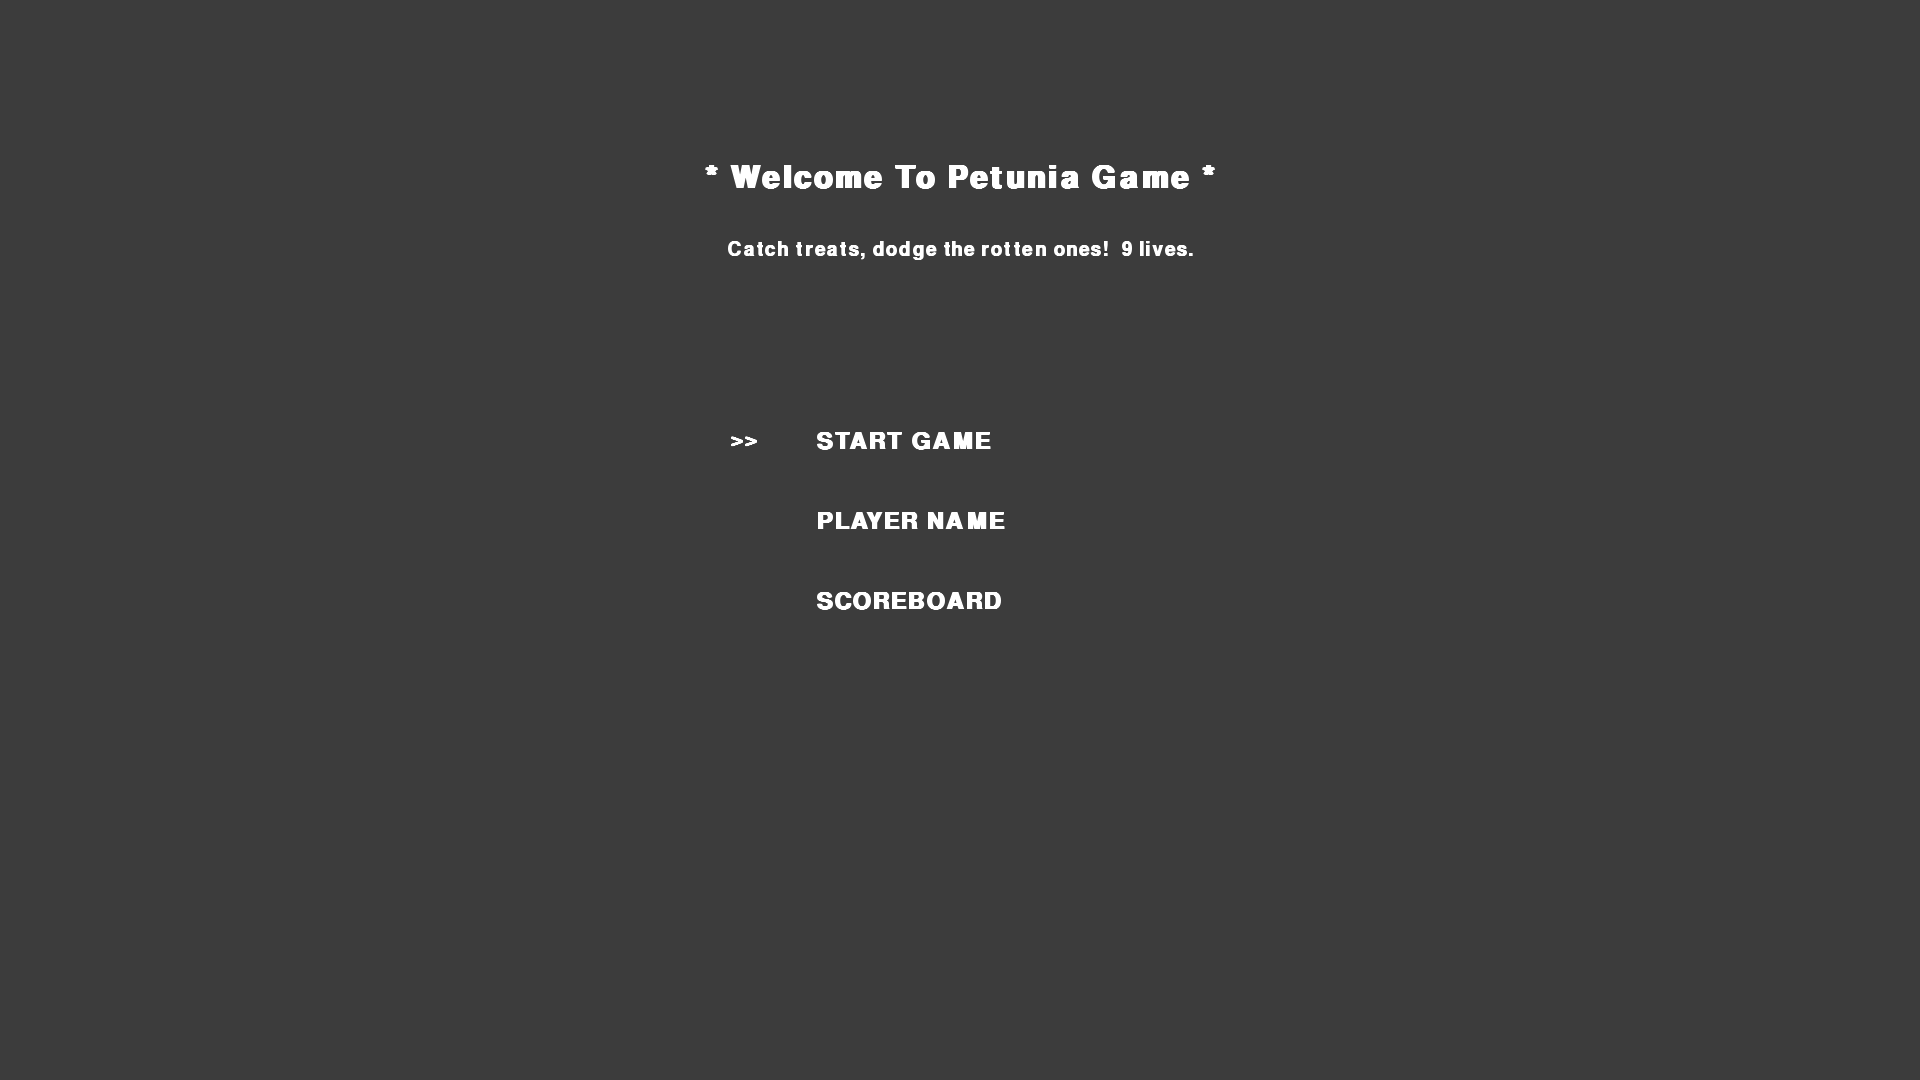
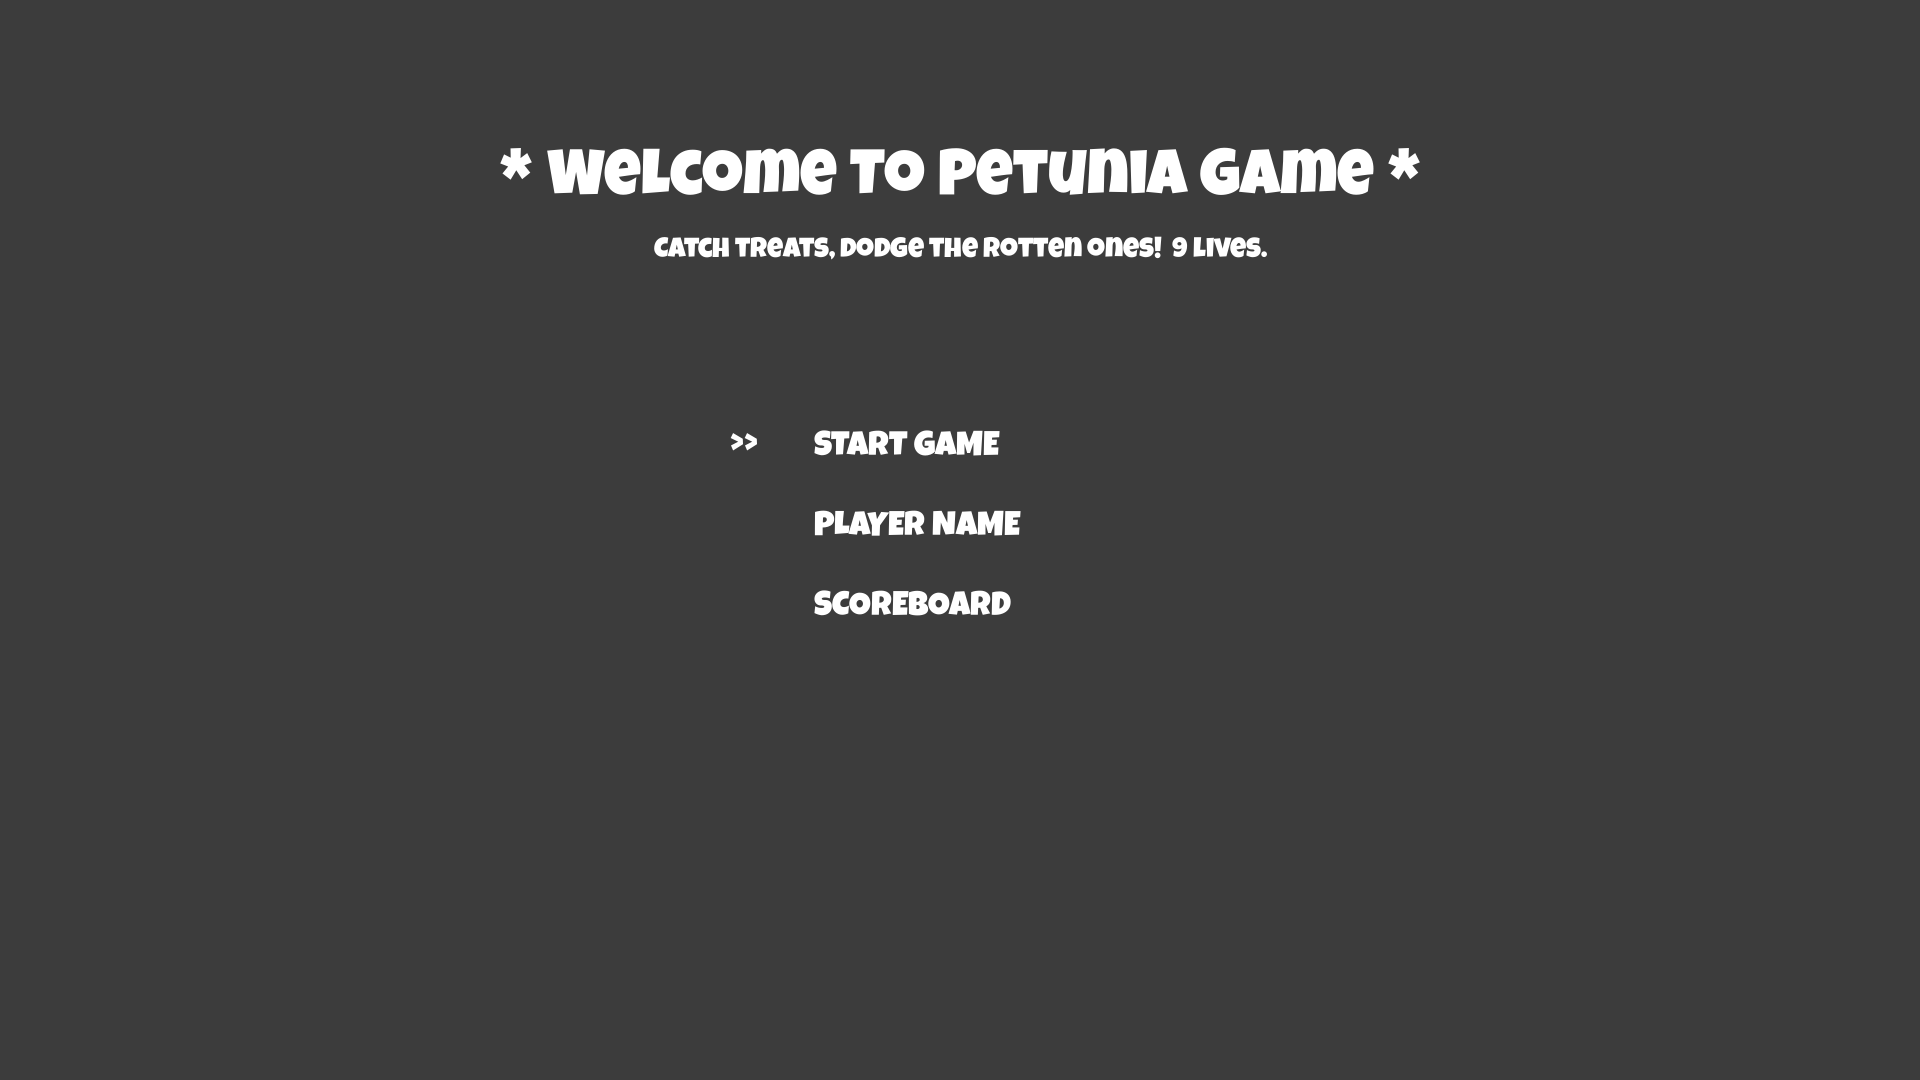
Bundle funny font (Luckiest Guy), fix text alignment

diff --git a/game.py b/game.py
@@ -45,6 +45,12 @@ class PetunaGame:
         self.timer = float(self.init_timer)
 
         self.velocity = 14
+        # Bundled funny font (Luckiest Guy, OFL 1.1). Falls back to a
+        # system font if the file ever goes missing.
+        self.font_path = os.path.join(
+            BASE_DIR, 'static', 'fonts', 'LuckiestGuy-Regular.ttf'
+        )
+        self._fonts = {}
         self.base_fall_speed = 5
         self.fall_speed = self.base_fall_speed
         self.score_value = 0
@@ -81,8 +87,21 @@ class PetunaGame:
 
         self.db_conn.commit()
 
+    def font(self, font_size):
+        """Cached funny font; system-font fallback if bundled file is missing."""
+        if font_size not in self._fonts:
+            try:
+                self._fonts[font_size] = self.game.font.Font(
+                    self.font_path, font_size
+                )
+            except OSError:
+                self._fonts[font_size] = self.game.font.SysFont(
+                    'comicsans', font_size, 1
+                )
+        return self._fonts[font_size]
+
     def draw_info(self, text_line=None, x=None, y=None, font_size=25):
-        font = self.game.font.SysFont('comicsans', font_size, 1)
+        font = self.font(font_size)
         if text_line is None and x is None and y is None:
             render = font.render(f'Score: {self.score_value}', True, (255, 255, 255))
             self.screen.blit(render, (7, 7))
@@ -91,26 +110,35 @@ class PetunaGame:
             self.screen.blit(render, (x, y))
 
     def draw_centered(self, text, y, font_size=36):
-        font = self.game.font.SysFont('comicsans', font_size, 1)
-        render = font.render(text, True, (255, 255, 255))
+        render = self.font(font_size).render(text, True, (255, 255, 255))
         rect = render.get_rect(center=(self.wndw_w // 2, y))
         self.screen.blit(render, rect)
 
+    def draw_right(self, text, right, y, font_size=28):
+        """Right-aligned text: right edge fixed, so values changing width
+        (e.g. Time: 9 vs Time: 60) don't make the column jitter."""
+        render = self.font(font_size).render(text, True, (255, 255, 255))
+        rect = render.get_rect(right=right, top=y)
+        self.screen.blit(render, rect)
+
     def draw_cursor(self, txt):
-        font = self.game.font.SysFont('comicsans', self.menu_cursor.font_size, 1)
-        render_font = font.render(txt, True, (255, 255, 255))
+        render_font = self.font(self.menu_cursor.font_size).render(
+            txt, True, (255, 255, 255)
+        )
         self.screen.blit(render_font, (self.menu_cursor.pos_x, self.menu_cursor.pos_y))
 
     def draw_game_over(self):
-        self.draw_centered('* G A M E O V E R *', 350, 48)
+        self.draw_centered('* GAME OVER *', 350, 72)
         self.draw_centered(self.game_over_reason, 430, 32)
         self.draw_centered(f'Final Score: {self.player.points}', 540, 40)
         self.draw_centered(f'Player:  {self.player.player_name}', 620, 40)
 
     def drawing(self):
         self.draw_info()
-        self.draw_info(f'Lives: {self.player.lives}', 10, 50, 28)
-        self.draw_info(f'Player: {self.player.player_name}', self.wndw_w - 230, 10, 28)
+        self.draw_info(f'Lives: {self.player.lives}', 10, 50, 30)
+        self.draw_right(
+            f'Player: {self.player.player_name}', self.wndw_w - 20, 10, 30
+        )
 
     def run_timmer(self):
         if self.timer > 0:
@@ -227,7 +255,7 @@ class PetunaGame:
         while fs and self.app_running:
             self.screen.fill((60, 60, 60))
 
-            self.draw_centered('* Welcome To Petunia Game *', 180, 44)
+            self.draw_centered('* Welcome To Petunia Game *', 180, 64)
             self.draw_centered('Catch treats, dodge the rotten ones!  9 lives.', 250, 28)
             for i, item in enumerate(items):
                 self.draw_info(f'  {item} ', cx - 160, rows[i], 34)
@@ -322,7 +350,7 @@ class PetunaGame:
             self.screen.blit(self.treat.treatimg, self.treat.treatrect)
             self.drawing()
 
-            self.draw_info(f'Time: {int(self.timer)}', self.wndw_w - 230, 50, 28)
+            self.draw_right(f'Time: {int(self.timer)}', self.wndw_w - 20, 50, 30)
 
             self.treat.update()  # treats drop from the sky
             self.treat.spawn()

diff --git a/tests/test_game.py b/tests/test_game.py
@@ -158,6 +158,19 @@ def test_scoreboard_returns_top5_by_score_desc(memdb):
     assert [s for _, s in rows] == [6, 5, 4, 3, 2]
 
 
+def test_funny_font_loads_and_renders(pg):
+    import os
+    assert os.path.isfile(pg.font_path)  # bundled Luckiest Guy TTF
+    f1, f2 = pg.font(40), pg.font(40)
+    assert f1 is f2  # cached
+    surf = f1.render('Petunia!', True, (255, 255, 255))
+    assert surf.get_width() > 0 and surf.get_height() > 0
+    # right-alignment pins the right edge regardless of text width
+    r1 = pg.font(30).render('Time: 9', True, (255, 255, 255)).get_rect()
+    r2 = pg.font(30).render('Time: 60', True, (255, 255, 255)).get_rect()
+    assert r1.width != r2.width  # widths differ, so fixed-x blits would jitter
+
+
 def test_app_boots_with_db_table_and_basedir(pg):
     assert os.getcwd() == game.BASE_DIR
     cur = pg.db_conn.cursor()

diff --git a/ADRS/openclaw-falling-treats-lives-20261106T140838Z.md b/ADRS/openclaw-falling-treats-lives-20261106T140838Z.md
@@ -36,6 +36,22 @@ makes it an actual dodge-and-catch game on a modern 1080p window.
   updated; `screenshots/*_1080p.png` proofs (gameplay, game-over, menu).
 - **ADR**: this file.
 
+## Follow-up: funny font + alignment pass (same PR)
+
+- **Inspection findings**: code requested `'comicsans'` via
+  `pygame.font.SysFont`, but that font doesn't exist on most Linux
+  systems — pygame silently fell back to its built-in default font, so
+  text looked different on every machine. HUD right column
+  (`Player:`/`Time:`) was blitted at a fixed x, so values changing width
+  made the column jitter.
+- **Fix**: bundled `static/fonts/LuckiestGuy-Regular.ttf`
+  (SIL OFL 1.1, via Fontsource CDN) + cached `PetunaGame.font(size)`
+  helper with SysFont fallback; all screens use it. New `draw_right()`
+  pins `Player:`/`Time:` to the right margin. Menu/game-over titles
+  bumped up (all-caps display face reads small otherwise).
+- **Tests**: +1 (`test_funny_font_loads_and_renders` — file exists,
+  cache works, width variance justifies right-alignment). 15/15 green.
+
 ## Alternatives considered
 
 - Multiple simultaneous falling treats: rejected for this PR — single-treat
